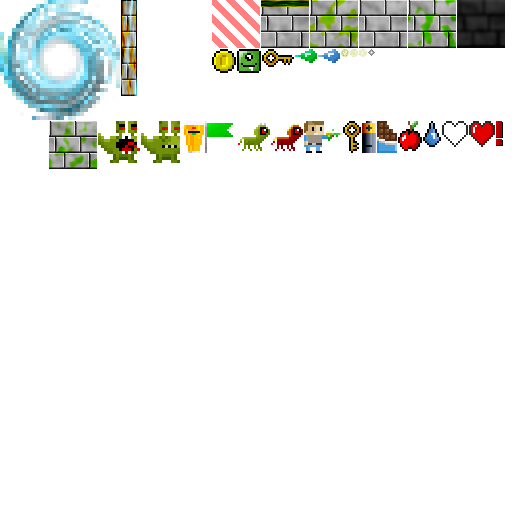
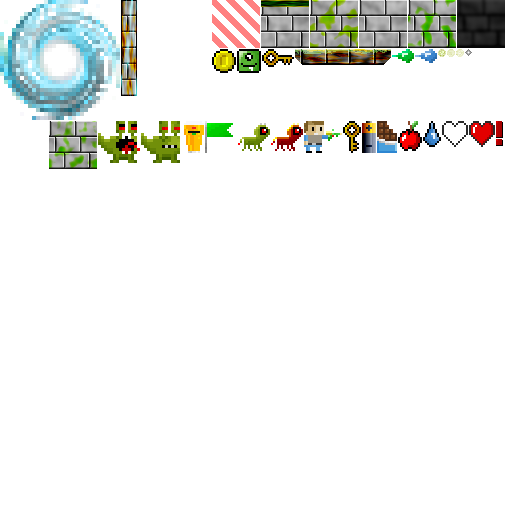
Added platforms.

Changed region(s): [[0.5625, 0.0938, 0.9062, 0.125]]

diff --git a/src/entities/platform.c b/src/entities/platform.c
@@ -1,0 +1,161 @@
+/*
+Copyright (C) 2019 Parallel Realities
+
+This program is free software; you can redistribute it and/or
+modify it under the terms of the GNU General Public License
+as published by the Free Software Foundation; either version 2
+of the License, or (at your option) any later version.
+
+This program is distributed in the hope that it will be useful,
+but WITHOUT ANY WARRANTY; without even the implied warranty of
+MERCHANTABILITY or FITNESS FOR A PARTICULAR PURPOSE.
+
+See the GNU General Public License for more details.
+
+You should have received a copy of the GNU General Public License
+along with this program; if not, write to the Free Software
+Foundation, Inc., 59 Temple Place - Suite 330, Boston, MA  02111-1307, USA.
+
+*/
+
+#include "platform.h"
+
+static void tick(void);
+static void activate(int active);
+static void load(cJSON *root);
+static void save(cJSON *root);
+
+void initPlatform(Entity *e)
+{
+	Platform *p;
+	
+	p = malloc(sizeof(Platform));
+	memset(p, 0, sizeof(Platform));
+	
+	/* defaults */
+	p->sx = e->x;
+	p->sy = e->y;
+	p->ex = e->x;
+	p->ey = e->y - 48;
+	p->pause = FPS;
+	p->speed = 2;
+	
+	e->typeName = "platform";
+	e->type = ET_STRUCTURE;
+	e->data = p;
+	e->tick = tick;
+	e->activate = activate;
+	e->atlasImage = getAtlasImage("gfx/entities/platform.png", 1);
+	e->w = e->atlasImage->rect.w;
+	e->h = e->atlasImage->rect.h;
+	e->flags = EF_SOLID+EF_WEIGHTLESS+EF_PUSH;
+	
+	e->load = load;
+	e->save = save;
+}
+
+static void tick(void)
+{
+	Platform *p;
+	
+	p = (Platform*)self->data;
+	
+	self->dx = p->dx;
+	self->dy = p->dy;
+	
+	if (!p->enabled)
+	{
+		self->dx = self->dy = 0;
+	}
+	
+	if (p->enabled)
+	{
+		if (abs(self->x - p->sx) < p->speed && abs(self->y - p->sy) < p->speed)
+		{
+			p->dx = p->dy = self->dx = self->dy = 0;
+			
+			self->flags |= EF_STATIC;
+			
+			if (--p->pauseTimer <= 0)
+			{
+				calcSlope(p->ex, p->ey, self->x, self->y, &self->dx, &self->dy);
+				
+				self->dx *= p->speed;
+				self->dy *= p->speed;
+				
+				p->dx = self->dx;
+				p->dy = self->dy;
+				
+				p->pauseTimer = p->pause;
+				
+				self->flags &= ~EF_STATIC;
+			}
+		}
+		
+		if (abs(self->x - p->ex) < p->speed && abs(self->y - p->ey) < p->speed)
+		{
+			p->dx = p->dy = self->dx = self->dy = 0;
+			
+			self->flags |= EF_STATIC;
+			
+			if (--p->pauseTimer <= 0)
+			{
+				calcSlope(p->sx, p->sy, self->x, self->y, &self->dx, &self->dy);
+				
+				self->dx *= p->speed;
+				self->dy *= p->speed;
+				
+				p->dx = self->dx;
+				p->dy = self->dy;
+				
+				p->pauseTimer = p->pause;
+				
+				self->flags &= ~EF_STATIC;
+			}
+		}
+	}
+}
+
+static void activate(int active)
+{
+	Platform *p;
+	
+	p = (Platform*)self->data;
+	
+	p->enabled = !p->enabled;
+}
+
+static void load(cJSON *root)
+{
+	Platform *p;
+	
+	p = (Platform*)self->data;
+	
+	p->sx = cJSON_GetObjectItem(root, "sx")->valueint;
+	p->sy = cJSON_GetObjectItem(root, "sy")->valueint;
+	p->ex = cJSON_GetObjectItem(root, "ex")->valueint;
+	p->ey = cJSON_GetObjectItem(root, "ey")->valueint;
+	p->pause = cJSON_GetObjectItem(root, "pause")->valueint;
+	p->speed = cJSON_GetObjectItem(root, "speed")->valueint;
+	p->enabled = cJSON_GetObjectItem(root, "enabled")->valueint;
+	
+	self->x = p->sx;
+	self->y = p->sy;
+	
+	p->pauseTimer = p->pause;
+}
+
+static void save(cJSON *root)
+{
+	Platform *p;
+	
+	p = (Platform*)self->data;
+	
+	cJSON_AddNumberToObject(root, "sx", p->sx);
+	cJSON_AddNumberToObject(root, "sy", p->sy);
+	cJSON_AddNumberToObject(root, "ex", p->ex);
+	cJSON_AddNumberToObject(root, "ey", p->ey);
+	cJSON_AddNumberToObject(root, "pause", p->pause);
+	cJSON_AddNumberToObject(root, "speed", p->speed);
+	cJSON_AddNumberToObject(root, "enabled", p->enabled);
+}

diff --git a/src/entities/platform.h b/src/entities/platform.h
@@ -21,16 +21,7 @@ Foundation, Inc., 59 Temple Place - Suite 330, Boston, MA  02111-1307, USA.
 #include "../common.h"
 #include "../json/cJSON.h"
 
-extern void initCoin(Entity *e);
-extern void initDoor(Entity *e);
-extern void initGreenBugEyedMonster(Entity *e);
-extern void initGreenHorse(Entity *e);
-extern void initKey(Entity *e);
-extern void initPlayer(Entity *e);
-extern void initStartPoint(Entity *e);
-extern void initTransferCube(Entity *e);
-extern void initRedHorse(Entity *e);
-extern void initPlatform(Entity *e);
+extern void calcSlope(int x1, int y1, int x2, int y2, float *dx, float *dy);
+extern AtlasImage *getAtlasImage(char *filename, int required);
 
 extern Entity *self;
-extern Stage *stage;

diff --git a/src/structs.h b/src/structs.h
@@ -139,6 +139,19 @@ typedef struct {
 	char targetFlag[MAX_NAME_LENGTH];
 } TransferCube;
 
+typedef struct {
+	float sx;
+	float sy;
+	float ex;
+	float ey;
+	int speed;
+	int pause;
+	int pauseTimer;
+	int enabled;
+	float dx;
+	float dy;
+} Platform;
+
 struct Particle {
 	float x;
 	float y;

diff --git a/src/world/entityFactory.c b/src/world/entityFactory.c
@@ -38,6 +38,7 @@ void initEntityFactory(void)
 	addInitFunc("redHorse", initRedHorse);
 	addInitFunc("transferCube", initTransferCube);
 	addInitFunc("startPoint", initStartPoint);
+	addInitFunc("platform", initPlatform);
 	
 	entityId = 0;
 }
